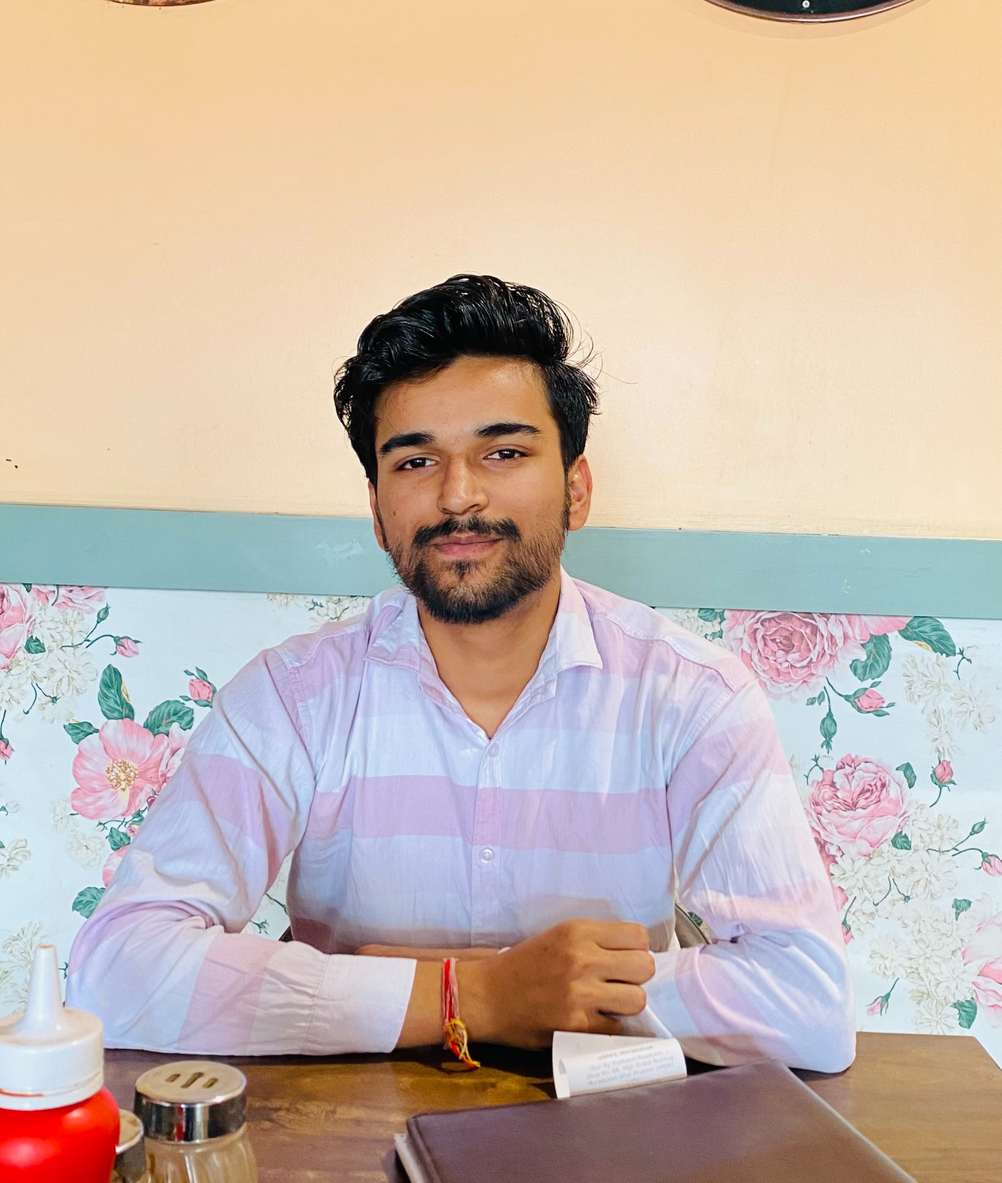
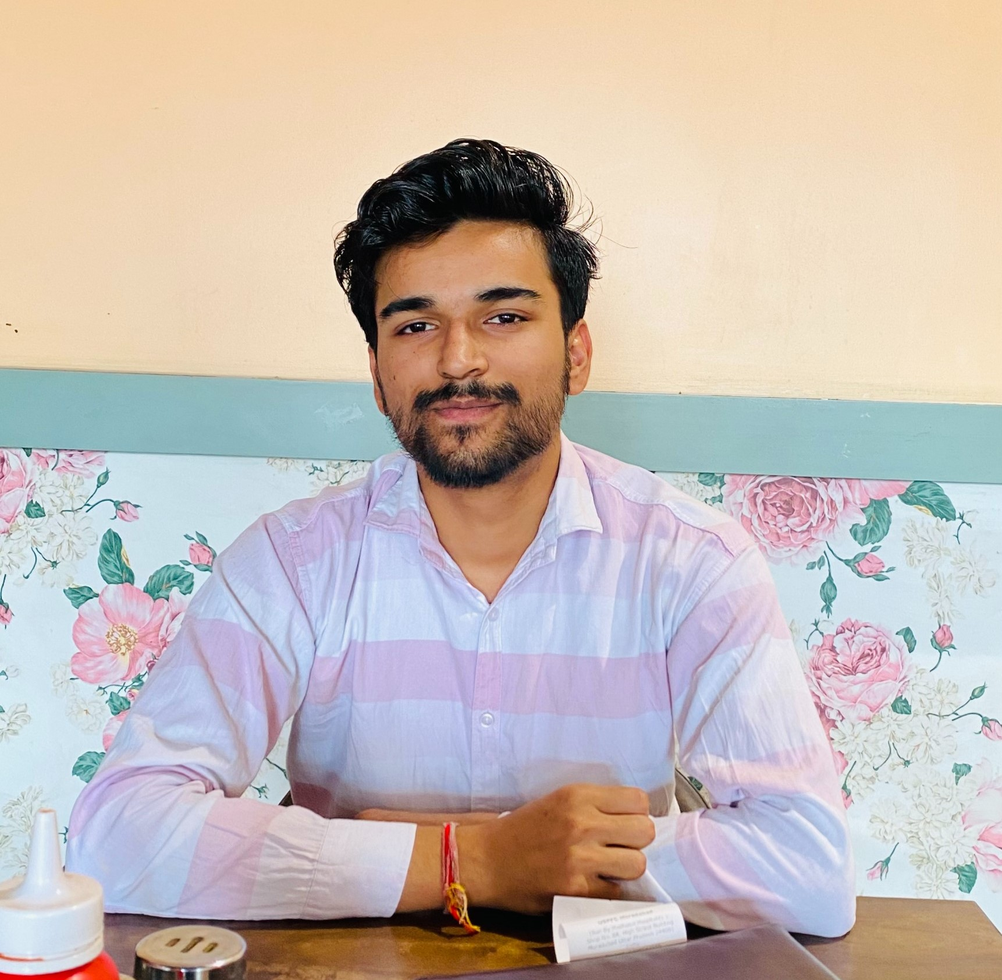
changed the image size in hero section

diff --git a/src/components/Hero.jsx b/src/components/Hero.jsx
@@ -71,7 +71,7 @@ const Hero = () => {
                 variants={container2(0.4)}
                 initial="hidden"
                 animate="visible"
-                className="lg:w-[420px] lg:h-[500px] rounded-3xl sm:h-[200px] z-10"
+                className="lg:w-auto lg:h-[450px] rounded-3xl sm:h-[200px] z-10"
                 src={my_image}
                 alt="Geetesh Yadav"
               />

diff --git a/src/components/Projects.jsx b/src/components/Projects.jsx
@@ -47,7 +47,7 @@ const Project = () => {
                       src={cur.img}
                       alt=""
                       key={index}
-                      className="w-[320px] h-[230px] mb-2 rounded-md relative"
+                      className="w-[320px] h-[230px] mb-6 rounded-md relative"
                     />
                   </a>
                 </motion.div>

diff --git a/src/components/About.jsx b/src/components/About.jsx
@@ -39,7 +39,7 @@ const About = () => {
               variants={container(0)}
               initial="hidden"
               animate="visible"
-              className="w-[350px] h-[400px] pl-6 "
+              className="w-[350px] h-[400px] pl-9 mb-6"
               src={my_image}
               alt=""
             />
